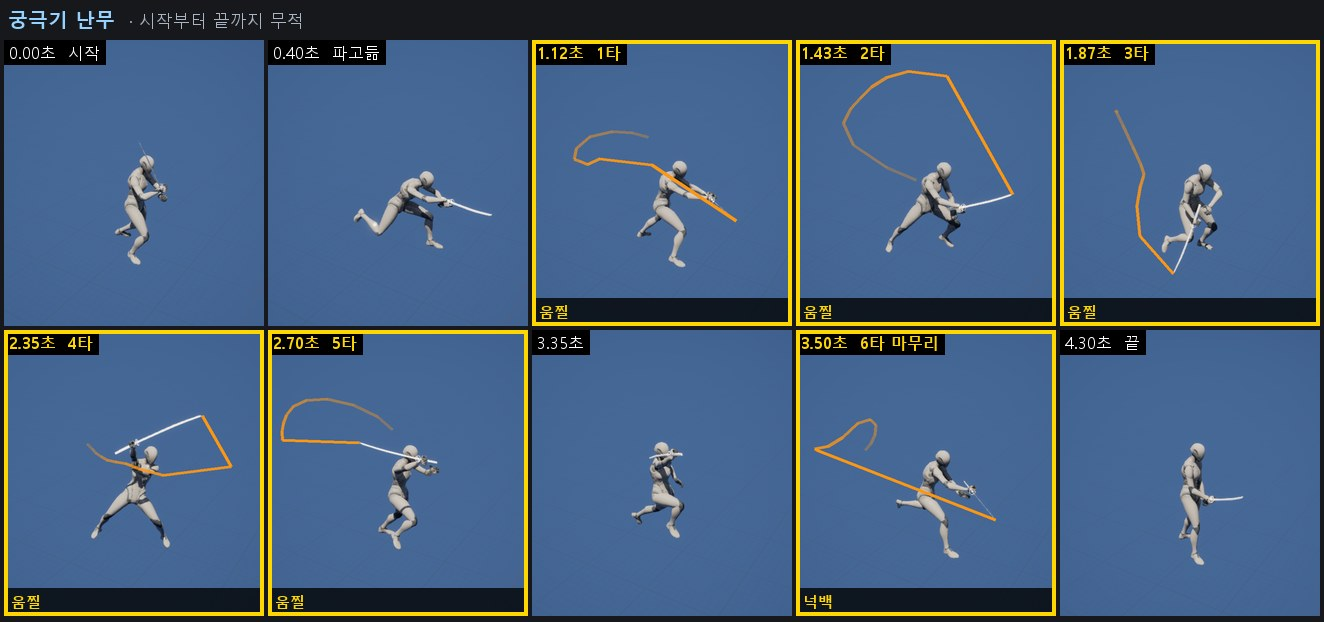
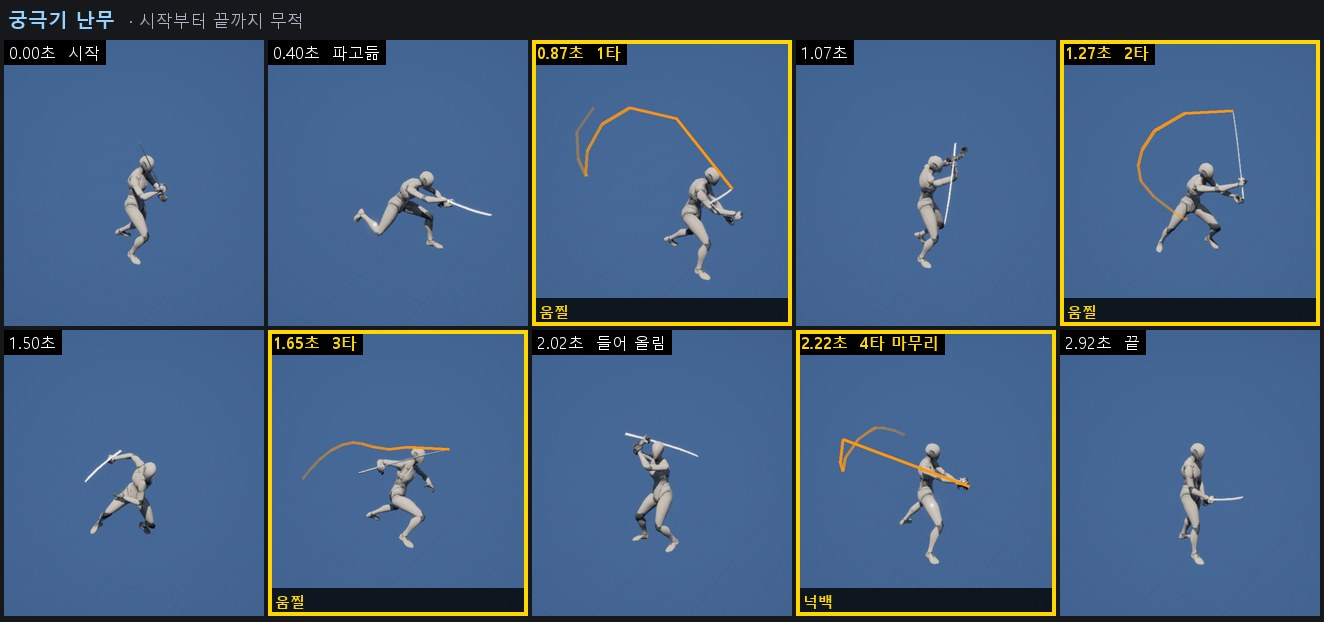
기획서: 폴리싱 17·18 요청 반영 (평타 Samurai Combo B 5타, 궁극기 A 콤보 4타)
- 평타: Attack_Combo_B1 ~ B5의 5타 콤보로 바꿉니다. 콤보 전체 배율 합계(대미지 4.8, PP 5.6)는
  그대로 두고 나눴습니다. 타겟팅 범위는 이전과 같은 방식(이동 포함 닿는 거리 + 2.5m)으로
  4 / 4.5 / 5 / 4.5 / 5m입니다. UP 충전은 5타(마지막 타)입니다.
- 궁극기: 평타와 겹치지 않도록 Attack_Dodge → Attack_Dodge_to_Combo1 → Attack_Combo2 ~ 4로
  바꿉니다. 4타(3번 베고 내려찍기로 마무리)이고, 배율 합계(대미지 10, PP 15)는 그대로입니다.
  첫 타가 시작 자리에서 약 4.6m까지 닿아 타겟팅 범위는 4m에서 4.5m가 됩니다.
- 평타·궁극기 모션 그림과 Samurai 애니메이션 조사의 '행동별 모션', '연결' 메모를 함께 고쳤습니다.

diff --git a/Docs/Design/플레이어 사양.md b/Docs/Design/플레이어 사양.md
@@ -55,11 +55,11 @@
 | 행동 | 충전량 |
 | - | - |
 | 스킬 적중 | +10 |
-| 평타 4타(마지막 타) 적중 | +4 |
+| 평타 5타(마지막 타) 적중 | +4 |
 | 패리 성공 | +4 |
 | 극한 회피 성공 | +6 |
 
-- 그 밖의 행동(평타 1 ~ 3타, 회피 반격, 궁극기, 처형 등)으로는 UP를 충전하지 않습니다.
+- 그 밖의 행동(평타 1 ~ 4타, 회피 반격, 궁극기, 처형 등)으로는 UP를 충전하지 않습니다.
 
 ### SP 소모
 
@@ -160,18 +160,19 @@
 
 ### 평타 (🔴 S)
 
-평타 키를 연속으로 입력하면 최대 4타까지 이어지는 콤보입니다.
+평타 키를 연속으로 입력하면 최대 5타까지 이어지는 콤보입니다.
 
 | 타 | 대미지 배율 | PP 배율 | 피격 반응 | 타겟팅 범위 |
 | - | - | - | - | - |
-| 1 | 1.0 | 1.0 | 움찔 | 4m |
-| 2 | 1.0 | 1.0 | 움찔 | 4.5m |
-| 3 | 1.2 | 1.2 | 움찔 | 5m |
-| 4 | 1.6 | 2.4 | 움찔 | 5m |
+| 1 | 0.8 | 0.8 | 움찔 | 4m |
+| 2 | 0.8 | 0.8 | 움찔 | 4.5m |
+| 3 | 1.0 | 1.0 | 움찔 | 5m |
+| 4 | 1.0 | 1.0 | 움찔 | 4.5m |
+| 5 | 1.2 | 2.0 | 움찔 | 5m |
 
 ![평타 모션](<Attachments/플레이어 모션 평타.jpg>)
 
-모션: `ARPG_Samurai_Anim_UE_Attack_Combo1` → `ARPG_Samurai_Anim_UE_Attack_Combo2` → `ARPG_Samurai_Anim_UE_Attack_Combo3` → `ARPG_Samurai_Anim_UE_Attack_Combo4`
+모션: `ARPG_Samurai_Anim_UE_Attack_Combo_B1` → `ARPG_Samurai_Anim_UE_Attack_Combo_B2` → `ARPG_Samurai_Anim_UE_Attack_Combo_B3` → `ARPG_Samurai_Anim_UE_Attack_Combo_B4` → `ARPG_Samurai_Anim_UE_Attack_Combo_B5`
 
 - 후딜이 끝날 때까지 입력이 없으면 콤보가 초기화됩니다.
 - 회피, 가드, 점프, 스킬, 궁극기, 처형으로 평타를 모션 캔슬하거나 넉백, 다운에 맞으면 콤보가 초기화됩니다. 움찔은 콤보를 끊지 않습니다.
@@ -183,7 +184,7 @@
 | 순서 | 조건 | 사용하는 행동 |
 | - | - | - |
 | 1 | 회피 반격 기회가 남아 있음 ('극한 회피' 참고) | 회피 반격 |
-| 2 | 평타 후딜 중 | 다음 타 (4타 다음은 1타) |
+| 2 | 평타 후딜 중 | 다음 타 (5타 다음은 1타) |
 | 3 | 그 밖의 경우 | 1타 |
 
 ### 점프 (🟢 B)
@@ -358,16 +359,16 @@ R 키로 사용하는, UP를 모두 소모하는 강력한 공격입니다.
 | 항목 | 난무 |
 | - | - |
 | UP 소모 | 100 (UP가 MaxUP일 때만 사용 가능) |
-| 동작 | 순식간에 다가간 뒤 5회 연속으로 베고, 강한 일격으로 마무리합니다. 방향은 '공통 규칙'의 '공격 방향'을 따릅니다. |
-| 대미지 배율 | 1~5타 각 1.2, 6타 4.0 |
-| PP 배율 | 1~5타 각 1.8, 6타 6.0 |
-| 피격 반응 | 1~5타 움찔, 6타 넉백 |
+| 동작 | 순식간에 다가간 뒤 3회 연속으로 베고, 강한 일격으로 마무리합니다. 방향은 '공통 규칙'의 '공격 방향'을 따릅니다. |
+| 대미지 배율 | 1~3타 각 2.0, 4타 4.0 |
+| PP 배율 | 1~3타 각 3.0, 4타 6.0 |
+| 피격 반응 | 1~3타 움찔, 4타 넉백 |
 | 보호 | 시작부터 종료까지 무적. 모션 캔슬하면 궁극기의 무적도 끝납니다. |
-| 타겟팅 범위 | 4m |
+| 타겟팅 범위 | 4.5m |
 
 ![궁극기 난무 모션](<Attachments/플레이어 모션 궁극기.jpg>)
 
-모션: `ARPG_Samurai_Anim_UE_Attack_Dodge` → `ARPG_Samurai_Anim_UE_Attack_Combo_B1` ~ `ARPG_Samurai_Anim_UE_Attack_Combo_B5` → `ARPG_Samurai_Anim_UE_Attack_HeavyB`
+모션: `ARPG_Samurai_Anim_UE_Attack_Dodge` → `ARPG_Samurai_Anim_UE_Attack_Dodge_to_Combo1` → `ARPG_Samurai_Anim_UE_Attack_Combo2` → `ARPG_Samurai_Anim_UE_Attack_Combo3` → `ARPG_Samurai_Anim_UE_Attack_Combo4`
 
 ### 처형 (🔴 S)
 

diff --git a/Docs/Art/Samurai 애니메이션 조사.md b/Docs/Art/Samurai 애니메이션 조사.md
@@ -99,8 +99,8 @@
 | `Attack_Combo_B1` ~ `B4` | 다음 B 모션 | B1 0.300초, B2 0.467초, B3 0.450초, B4 0.333초 | 자세 차이 6 ~ 11cm. 블렌드로 이어야 합니다. |
 | `Attack_Combo_B5` | `Attack_HeavyB` | 0.867초 | 자세 차이 14cm. 블렌드로 이어야 합니다. |
 
-- `Attack_Combo1` ~ `4`를 가장 빠른 시점에 이으면 총 2.30초이고, 베는 시점은 약 0.25, 0.67, 1.03, 1.60초입니다.
-- 정확히 맞물리지 않는 연결은 베기가 끝난 뒤 다음 모션의 첫 자세와 가장 가까운 시점에서 잇습니다. 이 시점으로 `Attack_Dodge` → `Attack_Combo_B1` ~ `B5` → `Attack_HeavyB`를 이으면 총 4.30초이고, 베는 시점은 약 1.12, 1.43, 1.87, 2.33, 2.70, 3.50초입니다. 첫 베기(`Attack_Combo_B1`)는 `Attack_Dodge`로 2.8m를 파고든 뒤라, 시작 자리에서 약 4.3m까지 닿습니다.
+- `Attack_Dodge` → `Attack_Dodge_to_Combo1` → `Attack_Combo2` ~ `4`를 가장 빠른 시점에 이으면 총 2.92초이고, 베는 시점은 약 0.87, 1.27, 1.65, 2.22초입니다. 첫 베기(`Attack_Dodge_to_Combo1`)는 `Attack_Dodge`로 2.6m를 파고든 뒤라, 시작 자리에서 약 4.6m까지 닿습니다.
+- 정확히 맞물리지 않는 연결은 베기가 끝난 뒤 다음 모션의 첫 자세와 가장 가까운 시점에서 잇습니다. 이 시점으로 `Attack_Combo_B1` ~ `B5`를 이으면 총 2.77초이고, 베는 시점은 약 0.28, 0.60, 1.07, 1.52, 1.87초입니다.
 
 ## 처형
 
@@ -188,10 +188,10 @@
 
 | 행동 | 모션 | 근거 |
 |---|---|---|
-| 평타 1 ~ 4타 | `Attack_Combo1` ~ `4` | 정확히 맞물리는 4타 체인 |
+| 평타 1 ~ 5타 | `Attack_Combo_B1` ~ `B5` | 동작이 자연스러운 5타 체인 |
 | 회피 반격 | `Attack_Heavy1` | 2.9m를 0.2초 만에 다가가 벱니다. 웅크린 자세에서 시작하므로 구르는 중이나 대기 자세에서 이을 때는 블렌드가 필요합니다. (자세 차이 40cm 이상) |
 | 스킬 | `Attack_Sprint` | 달려들며 베는 돌진 공격 |
-| 궁극기 | `Attack_Dodge` → `Attack_Combo_B1` ~ `B5` → `Attack_HeavyB` | 파고든 뒤 5번 베고, 깊게 내딛는 일격으로 마무리 (6타). 평타와 모션이 겹치지 않습니다. 잇는 시점은 '연결'을 따릅니다. |
+| 궁극기 | `Attack_Dodge` → `Attack_Dodge_to_Combo1` → `Attack_Combo2` ~ `4` | 파고든 뒤 3번 베고, 크게 휘둘러 내려찍는 일격으로 마무리 (4타). 정확히 맞물리는 체인이고, 평타와 모션이 겹치지 않습니다. 잇는 시점은 '연결'을 따릅니다. |
 | 처형 | `Execute` | 보스 쪽은 짝 모션 `Executed`(처형 피격)·`Executed_Death`(처형 사망) |
 | 회피 | `Evade_*` 8방향, 이동 입력이 없으면 `Dodge` | |
 | 가드 / 가드 움찔 / 가드 밀림 / 가드 브레이크 | `Guard` 계열 / `Guard_Hit1` / `Guard_Hit2`·`3` / `Guard_Break` | |
